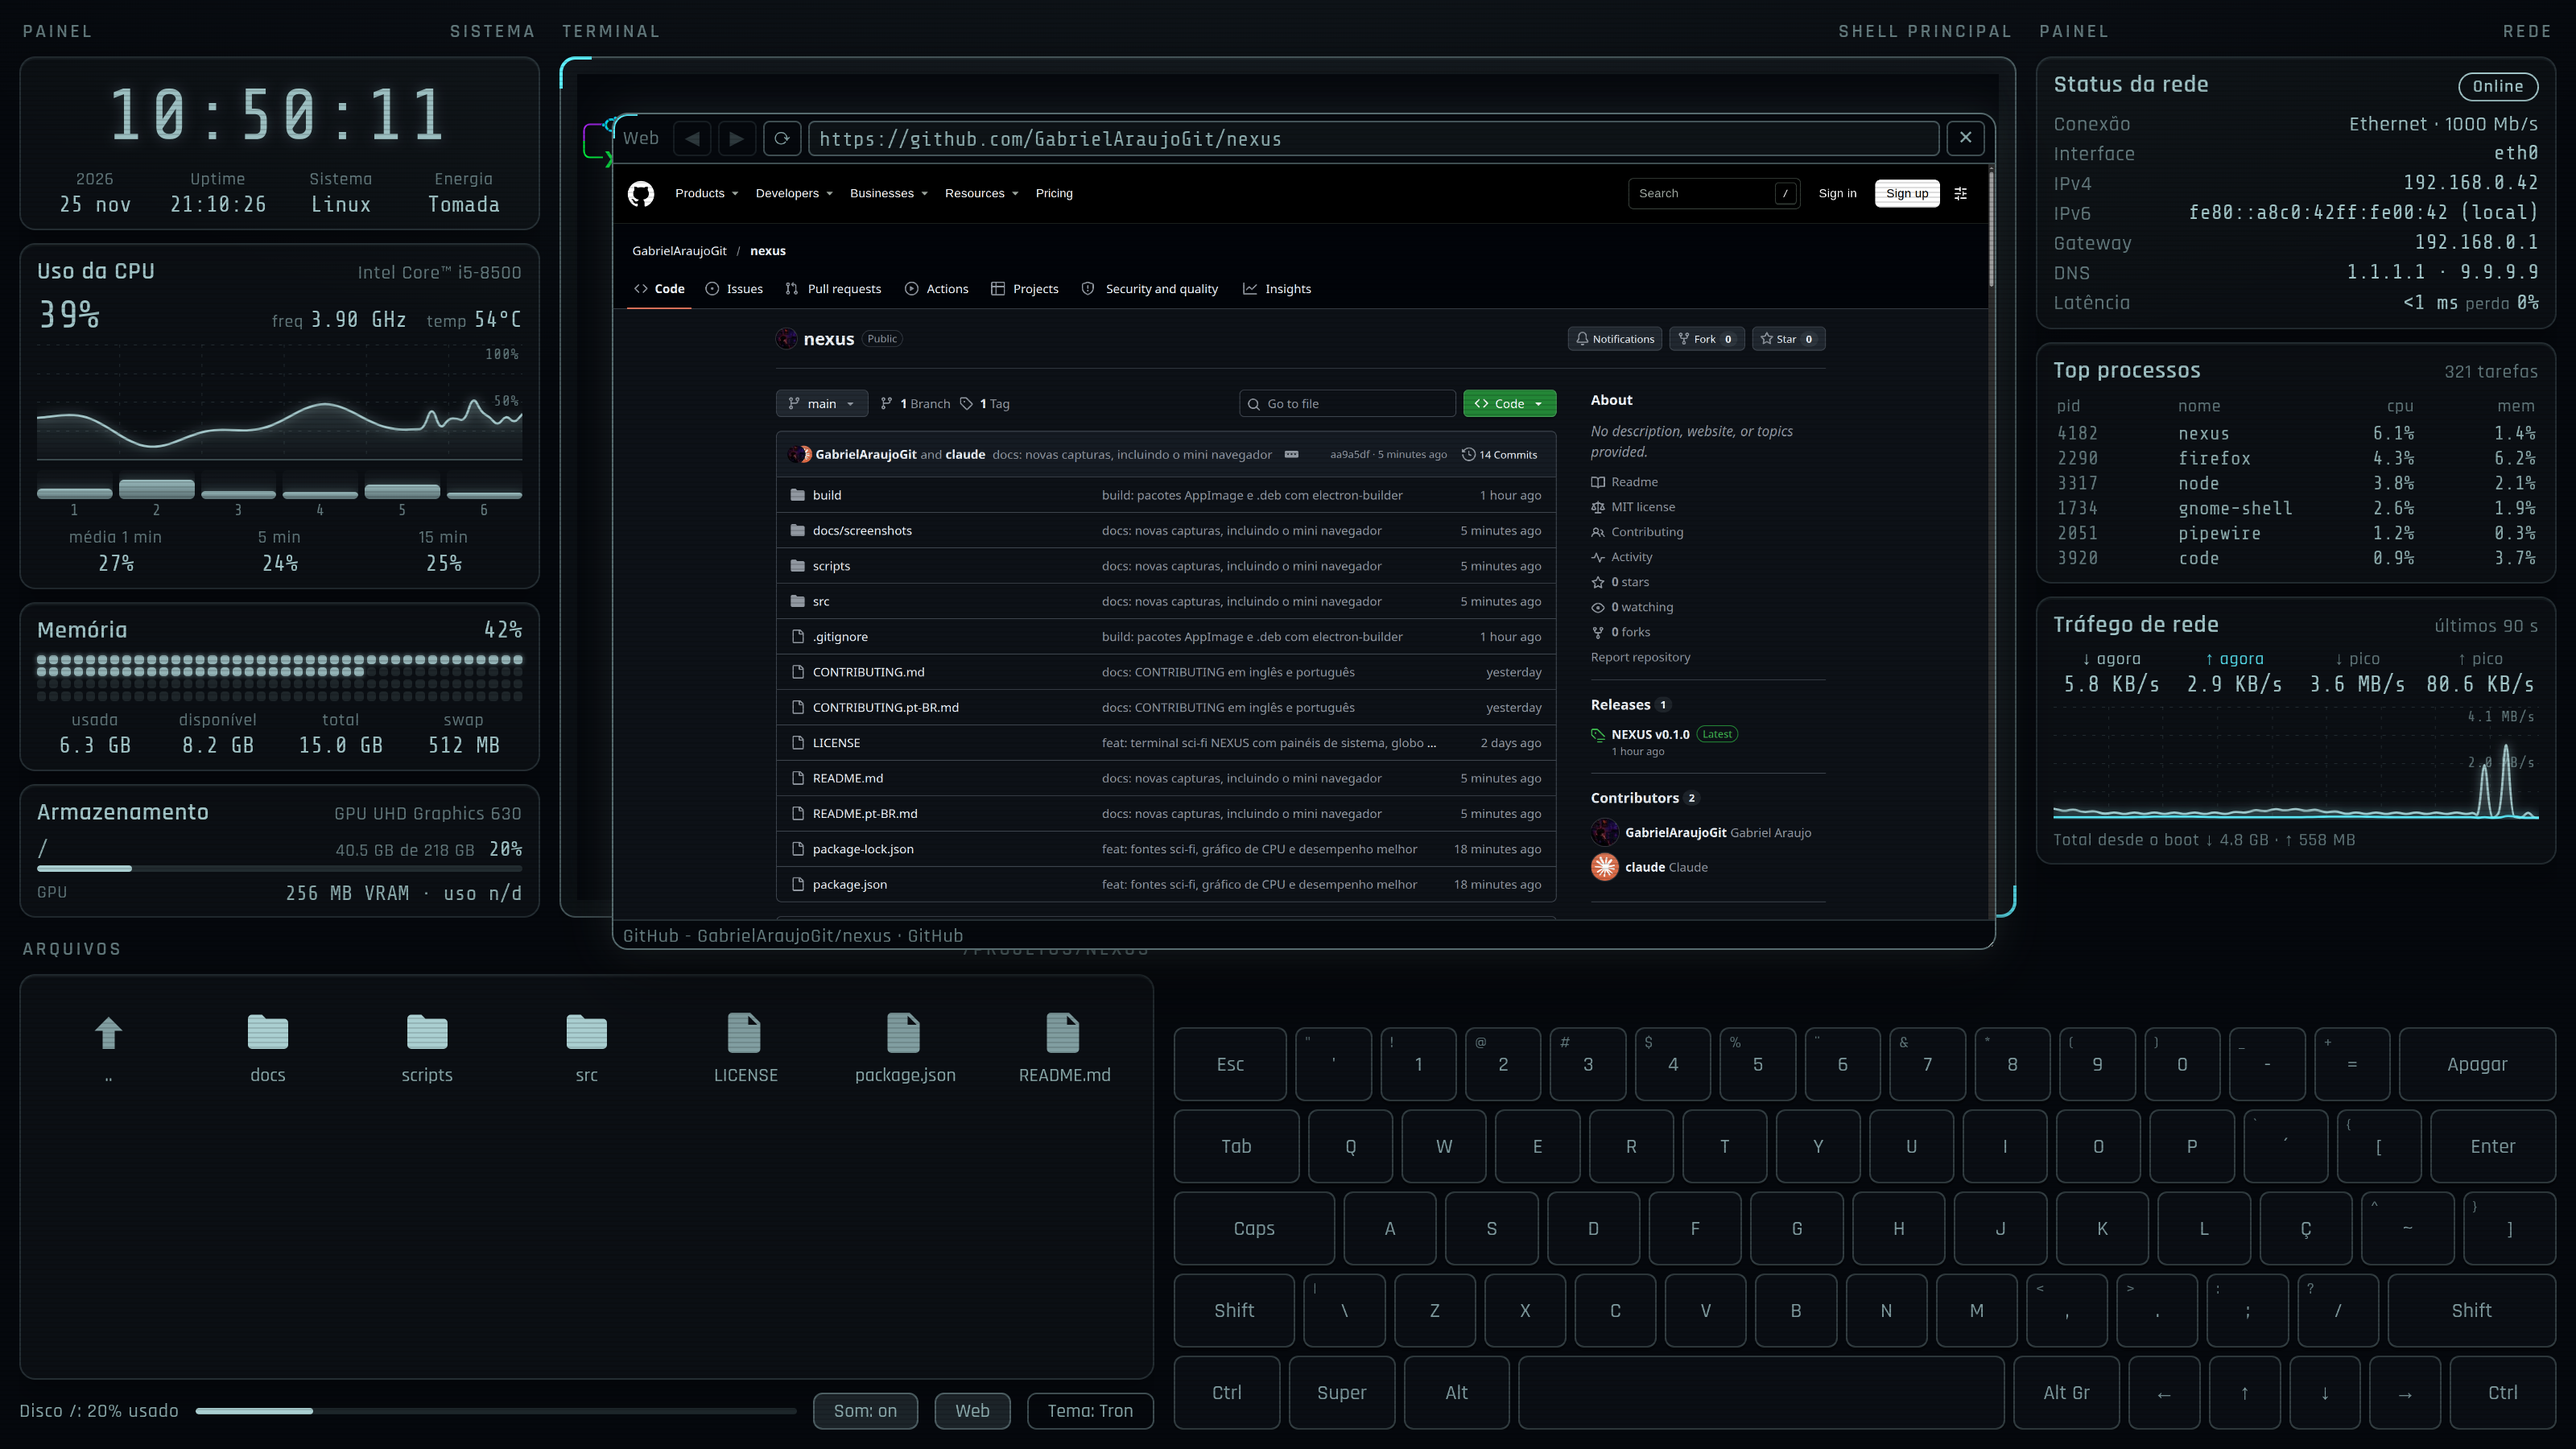
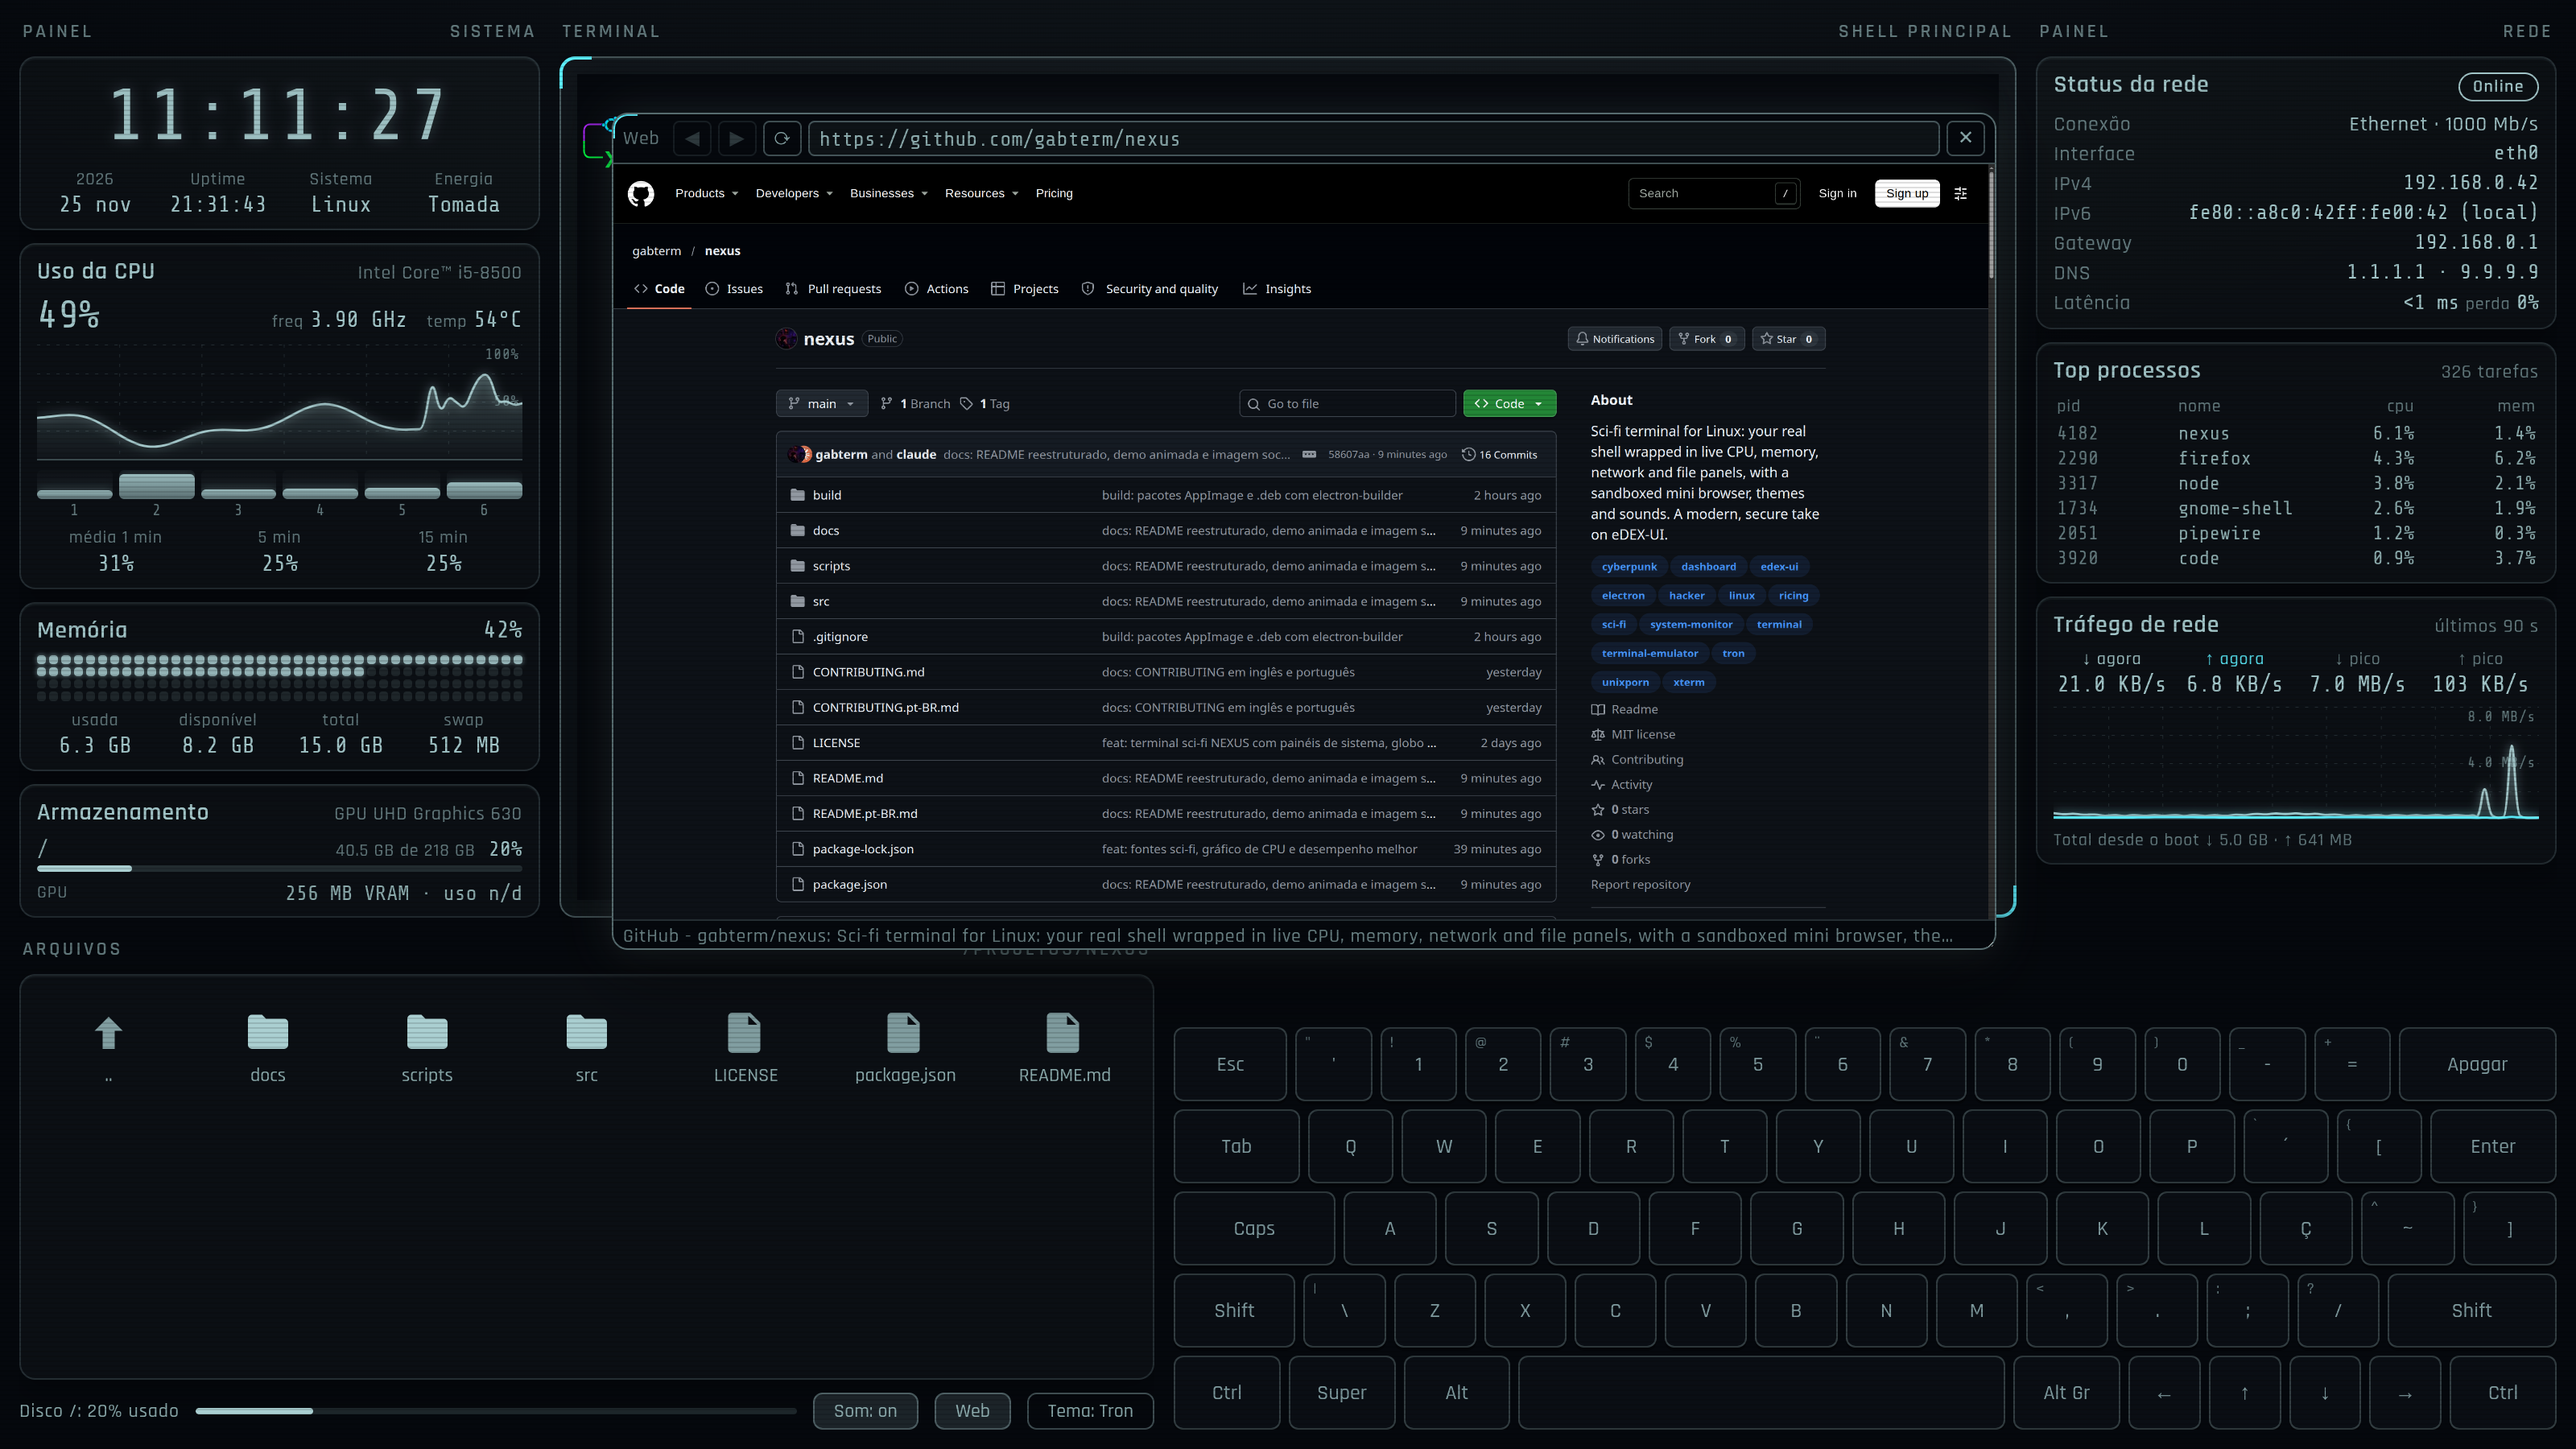
docs: usuário novo (gabterm) em links, licença, pacote e imagens

diff --git a/README.pt-BR.md b/README.pt-BR.md
@@ -19,7 +19,7 @@ em segurança e desempenho.
 
 **[English](README.md) · Português (Brasil)**
 
-[Baixar](https://github.com/GabrielAraujoGit/nexus/releases/latest) ·
+[Baixar](https://github.com/gabterm/nexus/releases/latest) ·
 [Recursos](#recursos) ·
 [Capturas](#capturas-de-tela) ·
 [Instalar](#instalar) ·
@@ -100,7 +100,7 @@ em segurança e desempenho.
 
 ### Baixar (Linux x86_64)
 
-Pegue o `.deb` ou o AppImage mais recente em [Releases](https://github.com/GabrielAraujoGit/nexus/releases/latest):
+Pegue o `.deb` ou o AppImage mais recente em [Releases](https://github.com/gabterm/nexus/releases/latest):
 
 ```bash
 # Debian/Ubuntu: instala o comando "nexus" e o atalho no menu
@@ -122,7 +122,7 @@ Pré-requisitos: Linux, Node.js 20+ e um compilador C/C++ para o `node-pty`.
 
 ```bash
 sudo apt install -y build-essential          # Debian/Ubuntu
-git clone https://github.com/GabrielAraujoGit/nexus.git && cd nexus
+git clone https://github.com/gabterm/nexus.git && cd nexus
 npm install
 npm run setup-pty                            # compila o node-pty para o Electron
 npm start

diff --git a/README.md b/README.md
@@ -19,7 +19,7 @@ security and performance in mind.
 
 **English · [Português (Brasil)](README.pt-BR.md)**
 
-[Download](https://github.com/GabrielAraujoGit/nexus/releases/latest) ·
+[Download](https://github.com/gabterm/nexus/releases/latest) ·
 [Features](#features) ·
 [Screenshots](#screenshots) ·
 [Install](#install) ·
@@ -101,7 +101,7 @@ security and performance in mind.
 
 ### Download (Linux x86_64)
 
-Get the latest `.deb` or AppImage from [Releases](https://github.com/GabrielAraujoGit/nexus/releases/latest):
+Get the latest `.deb` or AppImage from [Releases](https://github.com/gabterm/nexus/releases/latest):
 
 ```bash
 # Debian/Ubuntu: installs the "nexus" command and a menu entry
@@ -123,7 +123,7 @@ Requirements: Linux, Node.js 20+ and a C/C++ compiler for `node-pty`.
 
 ```bash
 sudo apt install -y build-essential          # Debian/Ubuntu
-git clone https://github.com/GabrielAraujoGit/nexus.git && cd nexus
+git clone https://github.com/gabterm/nexus.git && cd nexus
 npm install
 npm run setup-pty                            # builds node-pty for Electron
 npm start
